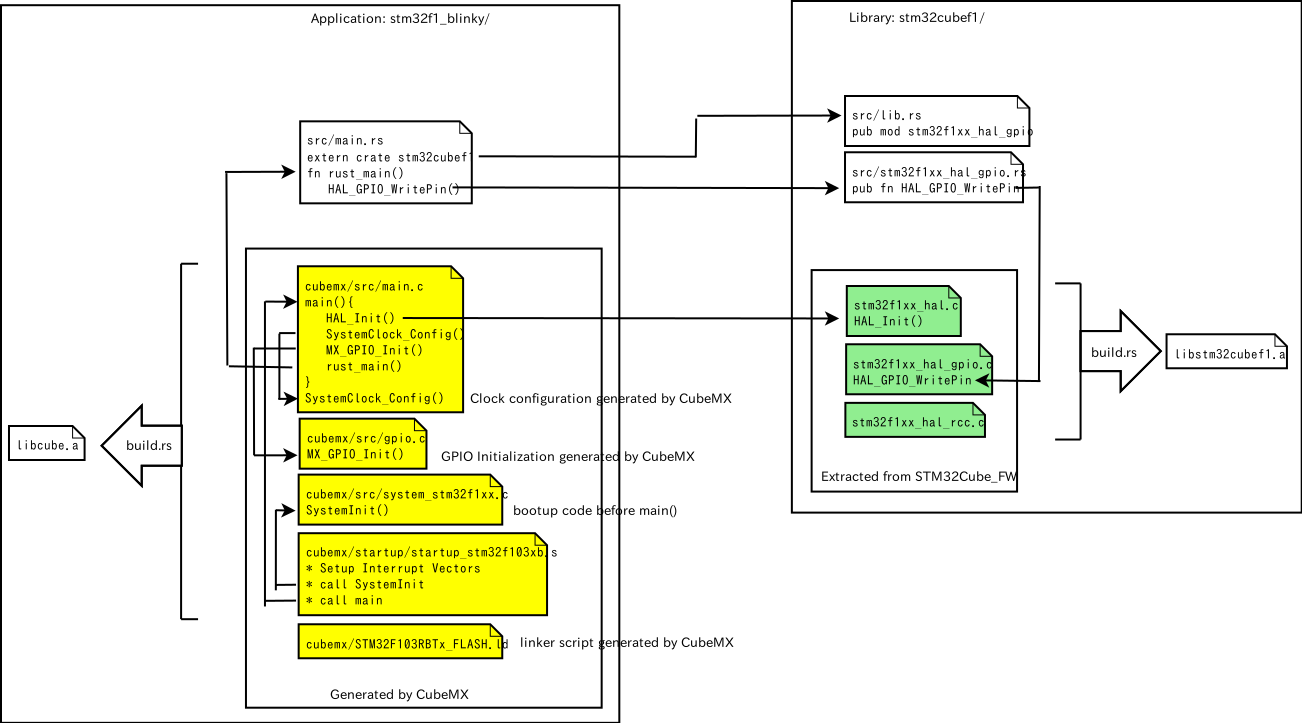
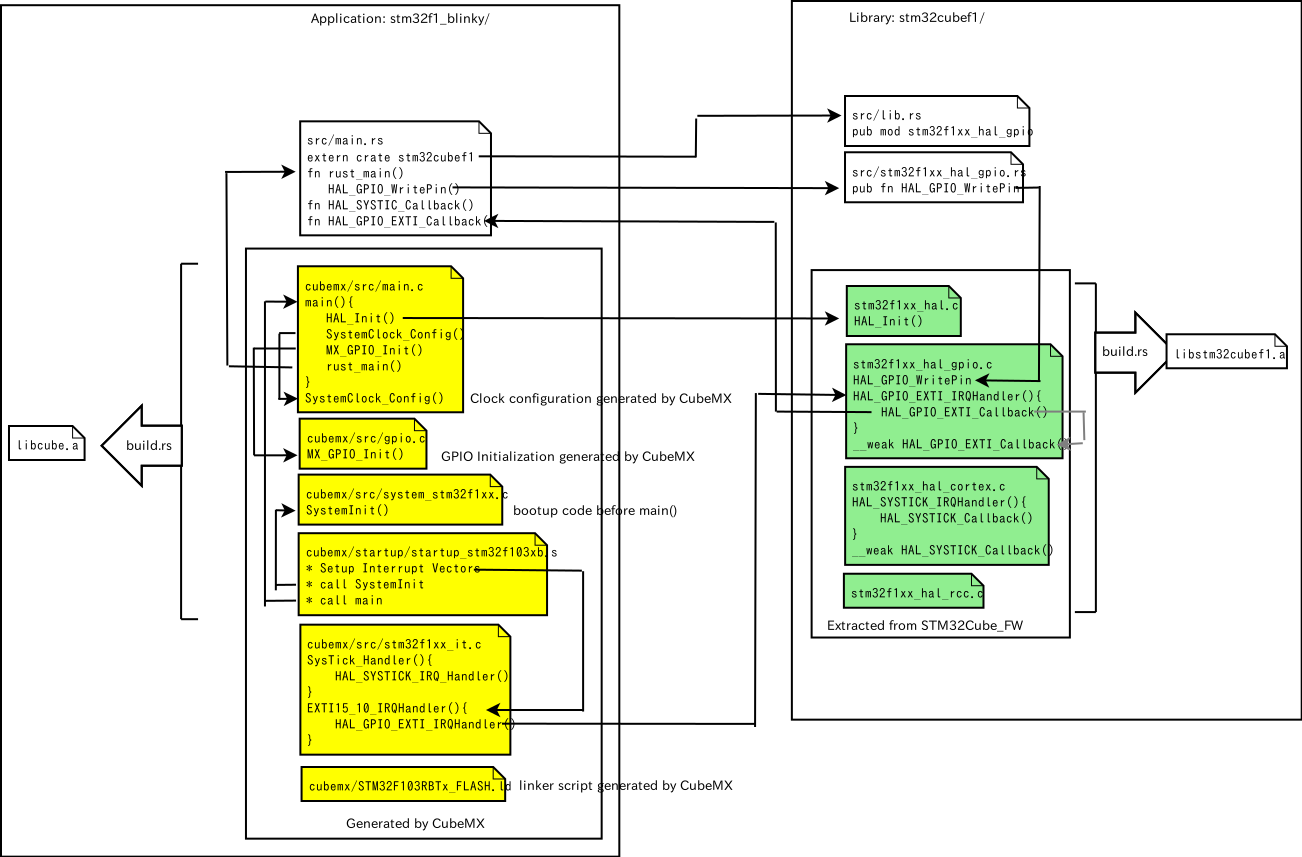
Document update.

diff --git a/readme.md b/readme.md
@@ -298,6 +298,86 @@ pub fn panic_fmt() -> ! {
 #[lang="eh_personality"]
 extern "C" fn eh_personality() {}
 ```
+ネームスペースを活用すれば、次のようにすっきりと書ける。
+```
+#![no_std]
+#![no_main]
+#![feature(lang_items)]
+#![allow(non_snake_case)]
+
+extern crate stm32cubef1;
+use stm32cubef1::*;
+use gpio;
+use gpio::{GPIOA};
+
+#[no_mangle]
+pub extern fn rust_main() {
+/*
+    // GPIOA::PIN_5 == LD2
+    // GPIOA_5 is configured as Output_pp in gpio.c:MX_GPIO_Init()
+    // ,which is generated by CubeMX
+    GPIOA().Init(&gpio::InitTypeDef{
+            Pin: gpio::PIN_5 as u32,
+            Mode: gpio::MODE_OUTPUT_PP,
+            Pull: gpio::NOPULL,
+            Speed: gpio::SPEED_FREQ_LOW});
+*/
+}
+
+static mut COUNT :u32 = 0;
+static mut MODE :u32 = 1000;
+
+#[no_mangle]
+pub extern fn HAL_SYSTICK_Callback() {
+    unsafe {  // static mut を取り扱うのは unsafe になる -> BAD!!!
+        COUNT = COUNT + 1;
+        if COUNT == MODE {
+            GPIOA().WritePin(gpio::PIN_5, 1);
+        }
+        if COUNT > (2*MODE) {
+            GPIOA().WritePin(gpio::PIN_5, 0);
+            COUNT = 0;
+        }
+    }
+}
+
+#[no_mangle]
+pub extern fn HAL_GPIO_EXTI_Callback(gpio_pin: u16) {
+    if gpio_pin == gpio::PIN_13 {
+        unsafe {
+            if MODE == 1000 {
+                MODE = 200;
+            } else {
+                MODE = 1000;
+            }
+        }
+    }
+}
+
+
+#[lang="panic_fmt"]
+pub fn panic_fmt() -> ! {
+    loop {}
+}
+
+#[lang="eh_personality"]
+extern "C" fn eh_personality() {}
+```
+だいぶ Rust っぽい。
+
+* `GIPOA.Init(...)`は C API の `GPIO_Init(GPIOA, GPIO_InitTypeDef)`に対応する。
+  + レジスタの集合体である GPIO::TypeDef のトレイトとして Init API を定義することで、オブジェクト指向っぽく書ける。
+  + GPIOA は GPIO::TypeDef のアドレスを指定したインスタンス。
+  + 実用上は、CubeMXが生成した gpio.c:MX_GPIO_Init()内でポートの設定が行われるので、このような初期化コードは、ほとんどの場合で不要だ。
+* `GPIOA().Write(pin)`も、同様に`GPIO_Write(GPIOA,GPIO_Pin)`に対応する。
+* `HAL_SYSTICK_Callback()`,`HAL_GPIO_EXTI_Callback()`は、C API のコールバック。
+  + `#[no_mangle]`で C から呼び出せるように mangling(名前修飾)をしない。
+  + C API では `__weak` symbol として定義されているので、Rustで定義して上書きリンクすれば良い。
+* グローバル化変数の修正は `unsafe`操作となる。
+  + 大文字の変数名を要求される。
+  + 次に改善予定。
+
+これで、1000ms 間隔で点滅しているLED が、ボタンを押すと 200ms 間隔に変化する。
 
 ### ライブラリ側
 
